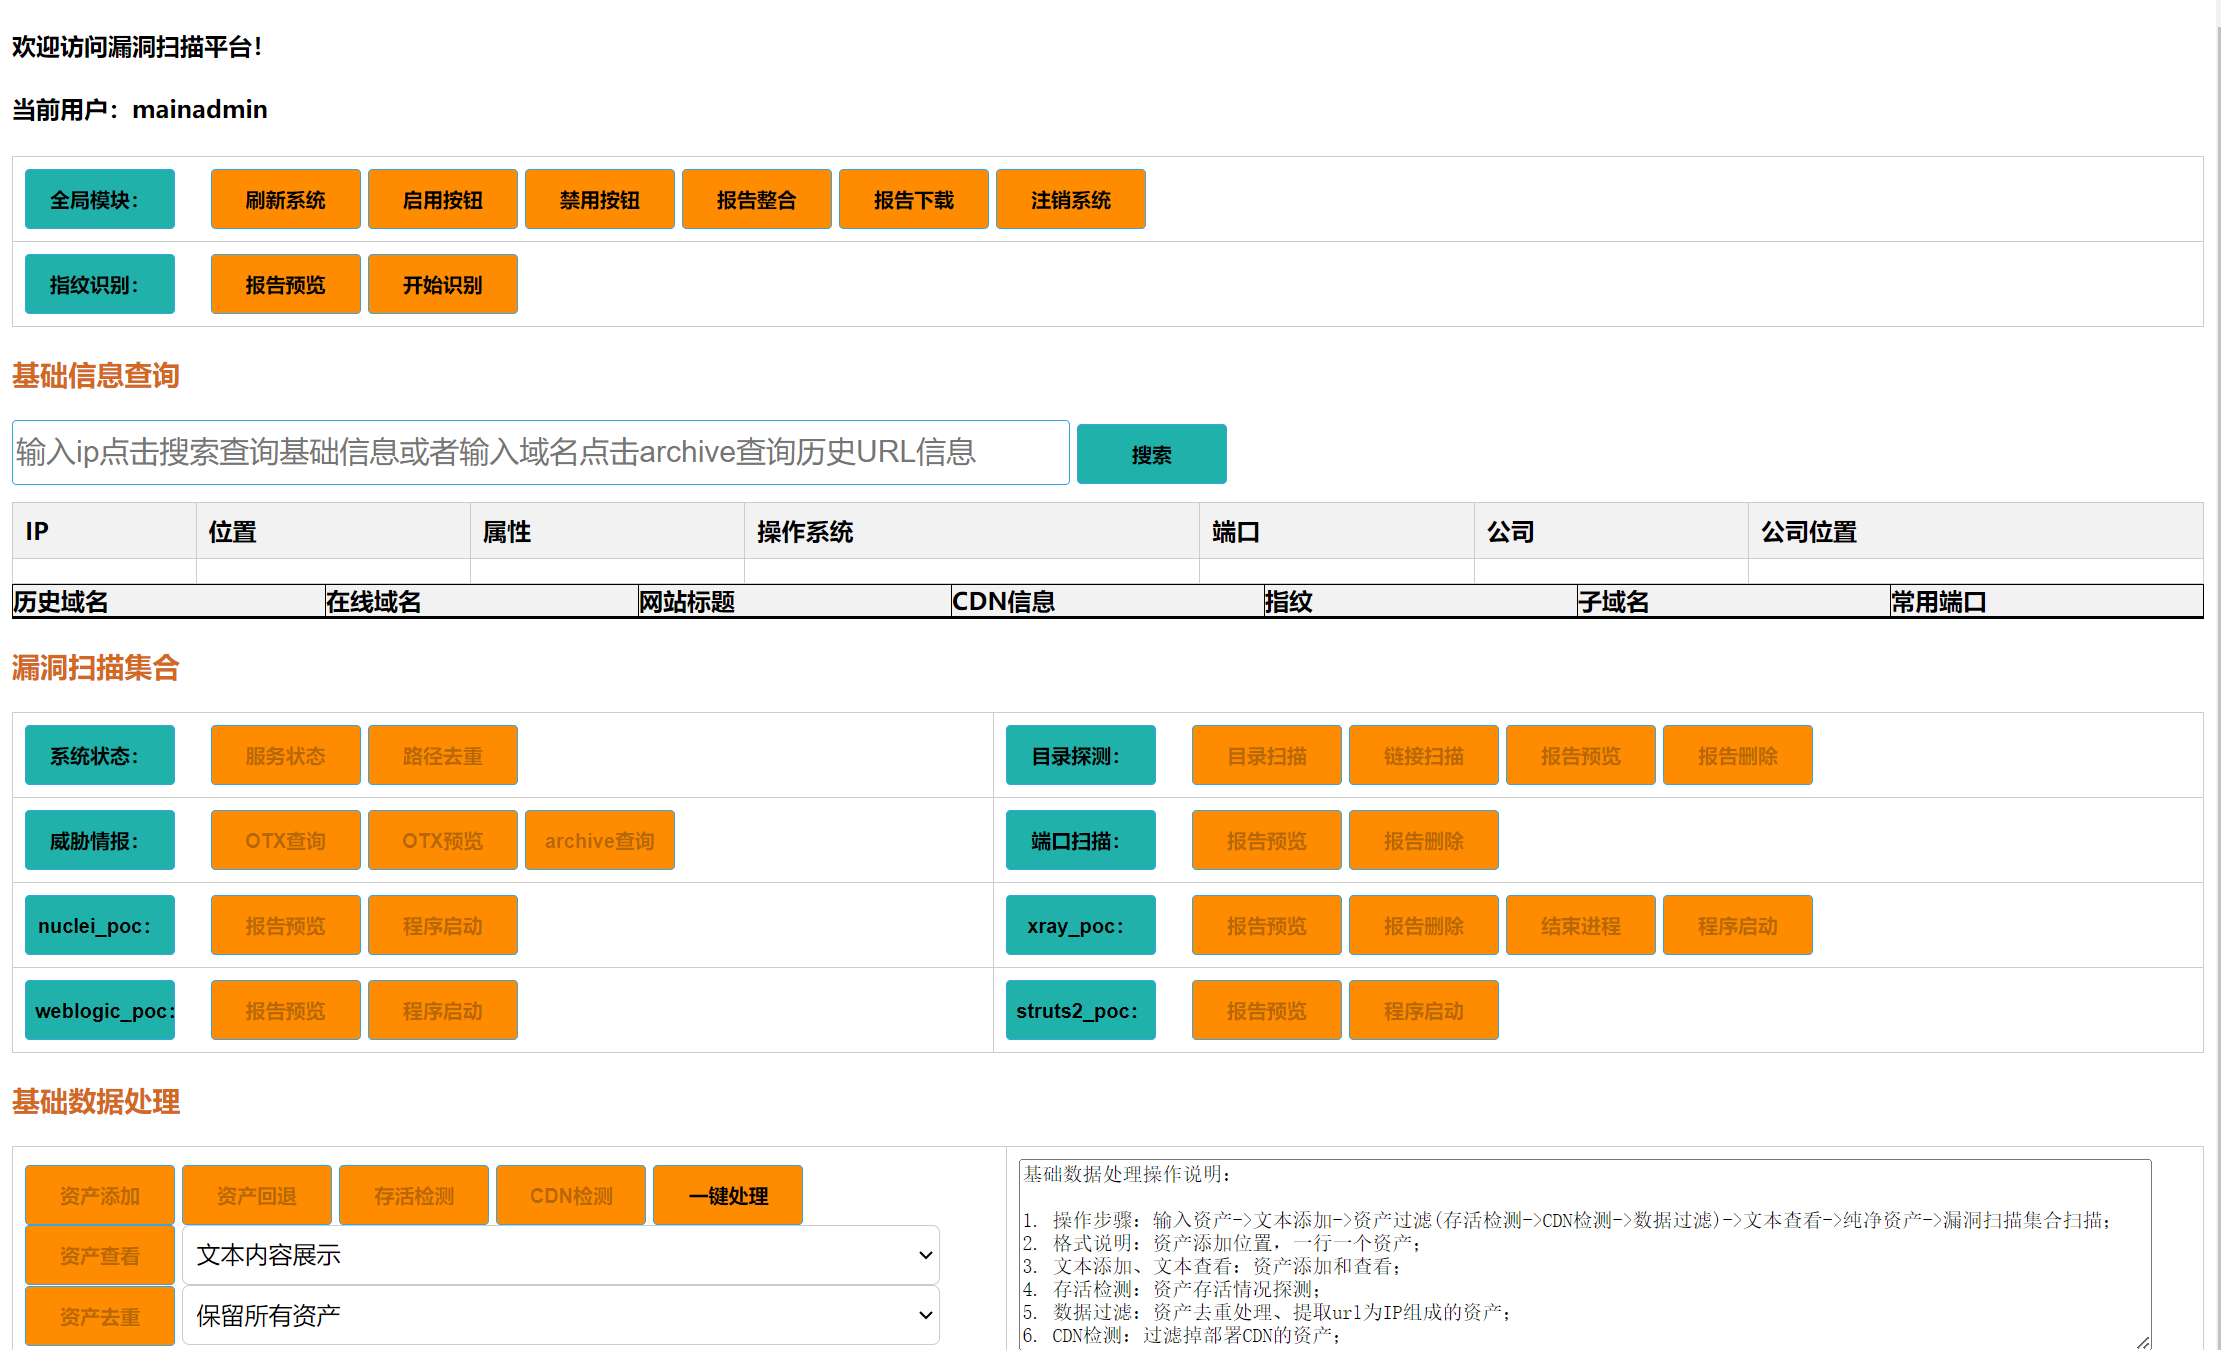
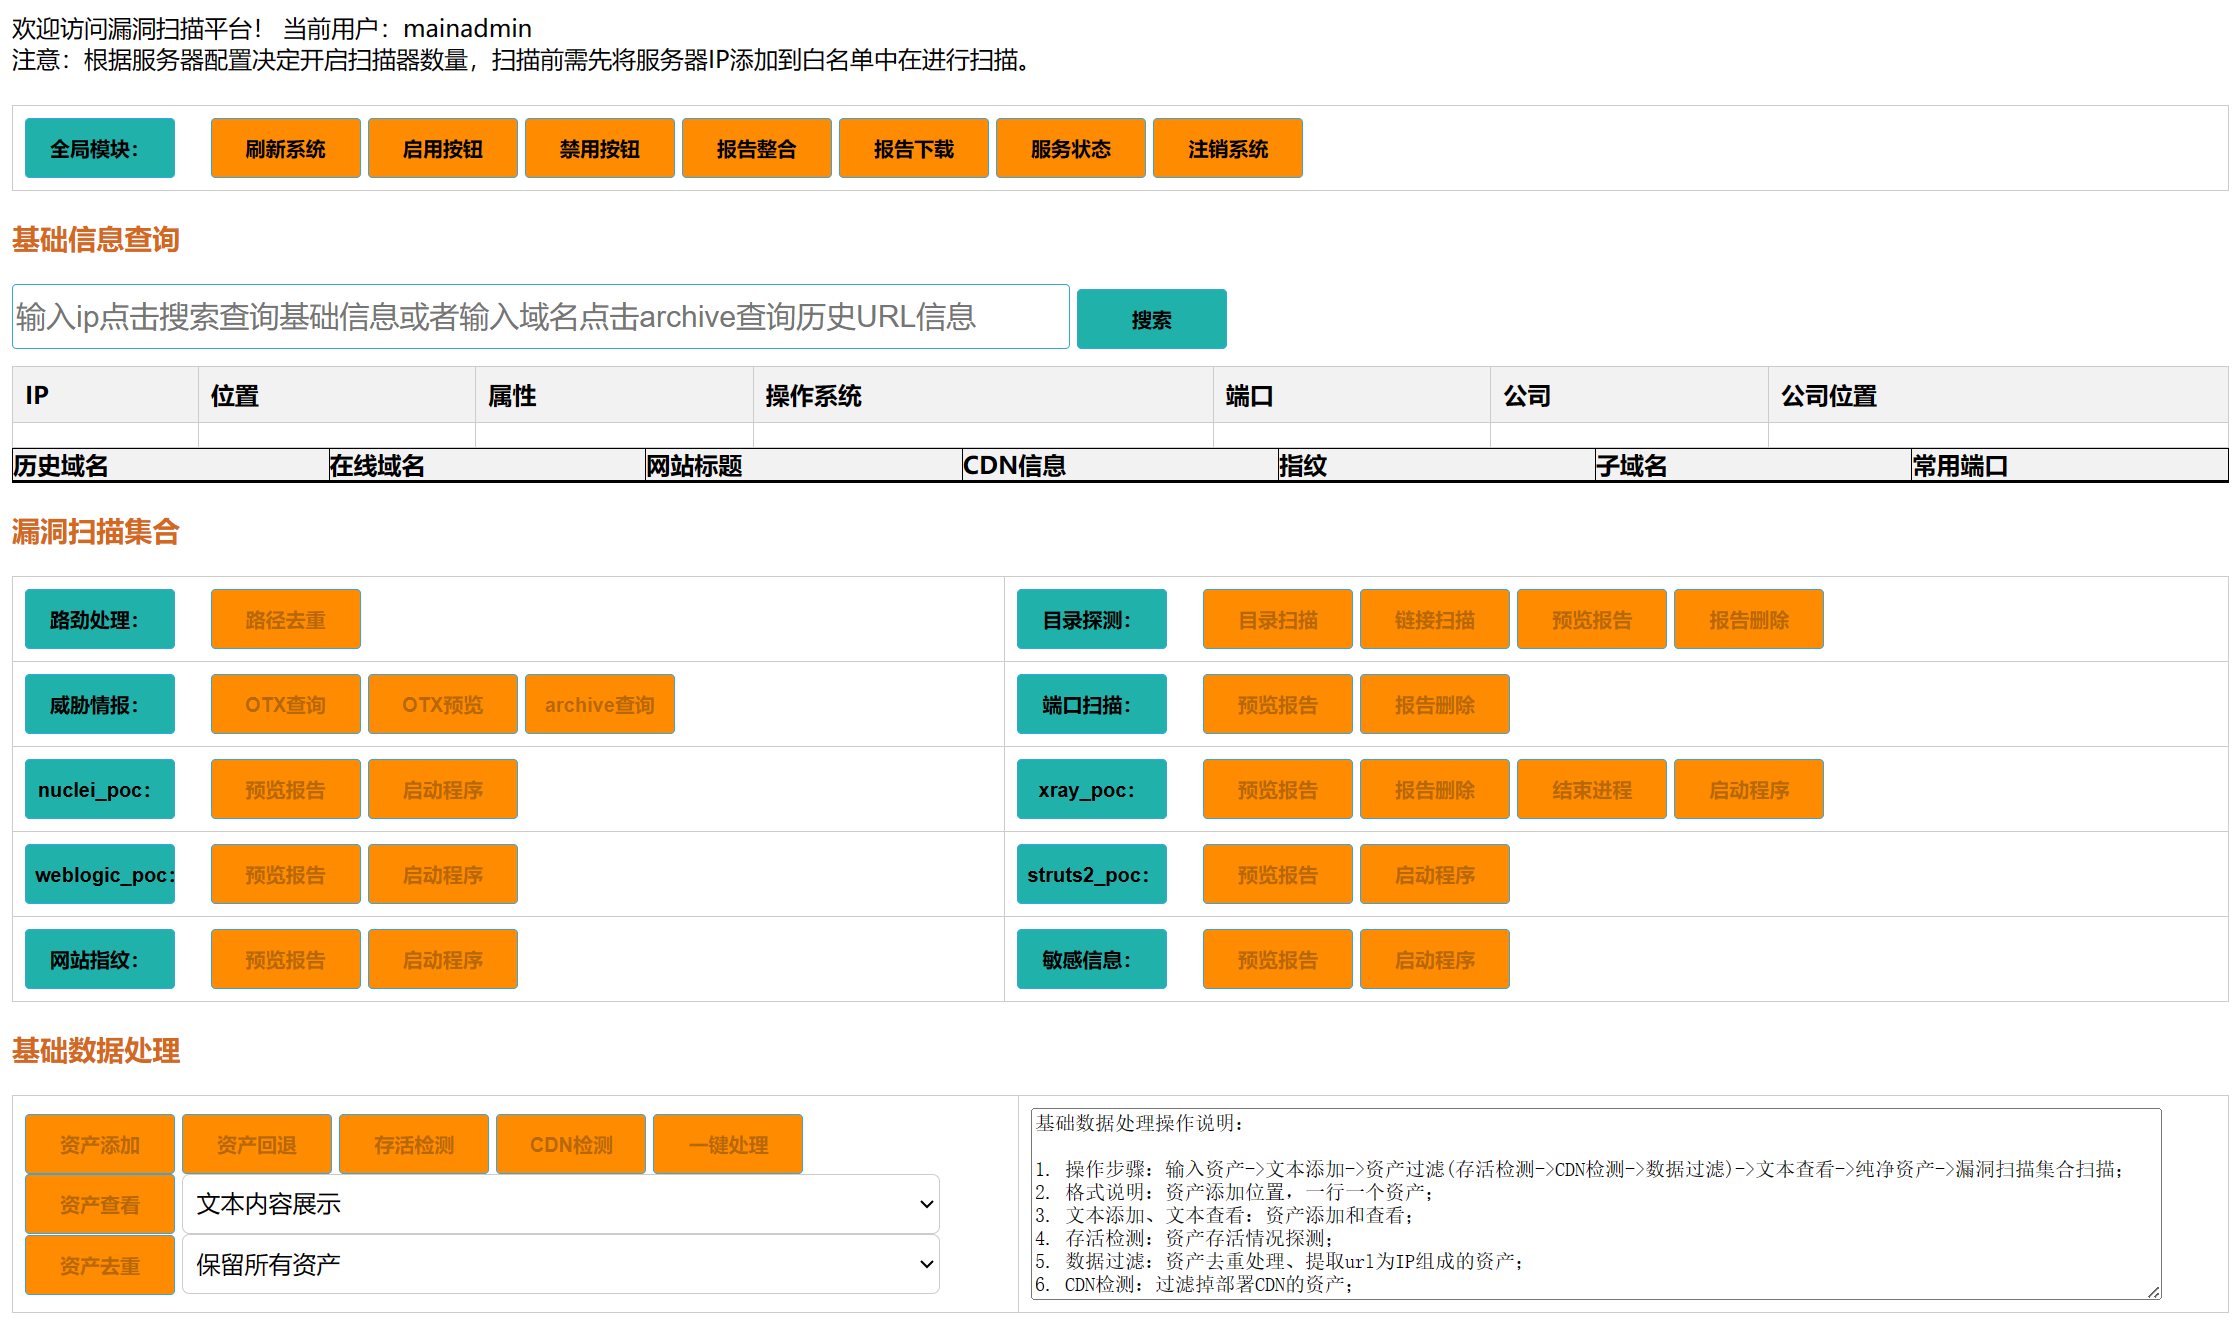
新增敏感信息识别

diff --git a/templates/index.html b/templates/index.html
@@ -11,8 +11,8 @@
 </head>
 
 <body>
-	<h4 align="left">欢迎访问漏洞扫描平台！</h4>
-	<h4 align="left">当前用户：{{data20}}</h4>
+	<span align="left">欢迎访问漏洞扫描平台！</span> <span align="right">当前用户：{{data20}}</span><br>
+	<span align="left">注意：根据服务器配置决定开启扫描器数量，扫描前需先将服务器IP添加到白名单中在进行扫描。</span><br><br>
 	<table border="1">
 		<tr>
 			<td>
@@ -22,16 +22,11 @@
 				<input type="button" value="禁用按钮" onclick="stopbutton()">
 				<input type="button" value="报告整合" onclick="reporttotalfunc()">
 				<input type="button" value="报告下载" onclick="reportdownloadfunc()">
+				<input type="button" value="服务状态" onclick="statusnmapfunc()" >
 				<input type="button" value="注销系统" onclick="signoutfunc()">
 			</td>			
 		</tr>
-		<tr>
-			<td>
-				<input type="submit"  value="指纹识别：">&nbsp;&nbsp;&nbsp;&nbsp;
-				<input type="button"  value="报告预览" onclick="eholefingerreportfunc()">
-				<input type="button"  value="开始识别" onclick="eholefingerfunc()">
-			</td>
-		</tr>
+		
 	</table>
 	
 	<h3>基础信息查询</h3>
@@ -137,8 +132,8 @@
 	<table border="1">
 		<tr>
 			<td>
-				<input type="submit" value="系统状态：">&nbsp;&nbsp;&nbsp;&nbsp;				
-				<input type="button" id="button2" value="服务状态" onclick="statusnmapfunc()" disabled>
+				<input type="submit" value="路劲处理：">&nbsp;&nbsp;&nbsp;&nbsp;				
+				
 				<input type="button" id="button4" value="路径去重" onclick="uniqdirfunc()" disabled>
 				
 			</td>
@@ -147,7 +142,7 @@
 				<input type="submit" value="目录探测：">&nbsp;&nbsp;&nbsp;&nbsp;
 				<input type="button" id="button18" value="目录扫描" onclick="jumpdirscanpage()" disabled>
 				<input type="button" id="button21" value="链接扫描" onclick="urlfinderscanfunc()" disabled>
-				<input type="button" id="button22" value="报告预览" onclick="urlfinderreportshow()" disabled>
+				<input type="button" id="button22" value="预览报告" onclick="urlfinderreportshow()" disabled>
 				<input type="button" id="button23" value="报告删除" onclick="deleteurlfinderreportfunc()" disabled>
 			</td>
 
@@ -161,7 +156,7 @@
 			</td>
 			<td>
 				<input type="submit" value="端口扫描：">&nbsp;&nbsp;&nbsp;&nbsp;
-				<input type="button" id="button9" value="报告预览" onclick="nmapjumpfunc()" disabled>
+				<input type="button" id="button9" value="预览报告" onclick="nmapjumpfunc()" disabled>
 				<input type="button" id="button10" value="报告删除" onclick="deletenmapfunc()" disabled>
 			</td>
 
@@ -169,27 +164,39 @@
 		<tr>
 			<td>
 				<input type="submit" value="nuclei_poc：">&nbsp;&nbsp;&nbsp;&nbsp;
-				<input type="button" id="button11" value="报告预览" onclick="nucleijumpfunc()" disabled>
-				<input type="button" id="button12" value="程序启动" onclick="startnucleifunc()" disabled>
+				<input type="button" id="button11" value="预览报告" onclick="nucleijumpfunc()" disabled>
+				<input type="button" id="button12" value="启动程序" onclick="startnucleifunc()" disabled>
 			</td>
 			<td>
 				<input type="submit" value="xray_poc：">&nbsp;&nbsp;&nbsp;&nbsp;
-				<input type="button" id="button13" value="报告预览" onclick="xrayreportshow()" disabled>
+				<input type="button" id="button13" value="预览报告" onclick="xrayreportshow()" disabled>
 				<input type="button" id="button14" value="报告删除" onclick="xrayreportdelete()" disabled>
 				<input type="button" id="button15" value="结束进程" onclick="killxrayandradfunc()" disabled>
-				<input type="button" id="button16" value="程序启动" onclick="startradandxray()" disabled>
+				<input type="button" id="button16" value="启动程序" onclick="startradandxray()" disabled>
 			</td>
 		</tr>
 		<tr>
 			<td>
 				<input type="submit" value="weblogic_poc：">&nbsp;&nbsp;&nbsp;&nbsp;
-				<input type="button" id="button27" value="报告预览" onclick="weblogicreportfunc()" disabled>
-				<input type="button" id="button28" value="程序启动" onclick="weblogicscanfunc()" disabled>
+				<input type="button" id="button27" value="预览报告" onclick="weblogicreportfunc()" disabled>
+				<input type="button" id="button28" value="启动程序" onclick="weblogicscanfunc()" disabled>
 			</td>
 			<td>
 				<input type="submit" value="struts2_poc：">&nbsp;&nbsp;&nbsp;&nbsp;
-				<input type="button" id="button29" value="报告预览" onclick="struts2reportfunc()" disabled>
-				<input type="button" id="button30" value="程序启动" onclick="struts2scanfunc()" disabled>
+				<input type="button" id="button29" value="预览报告" onclick="struts2reportfunc()" disabled>
+				<input type="button" id="button30" value="启动程序" onclick="struts2scanfunc()" disabled>
+			</td>
+		</tr>
+		<tr>
+			<td>
+				<input type="submit"  value="网站指纹：">&nbsp;&nbsp;&nbsp;&nbsp;
+				<input type="button"  id="button31"  value="预览报告" onclick="eholefingerreportfunc()" disabled>
+				<input type="button"  id="button32"  value="启动程序" onclick="eholefingerfunc()" disabled>
+			</td>
+			<td>
+				<input type="submit"  value="敏感信息：">&nbsp;&nbsp;&nbsp;&nbsp;
+				<input type="button"   id="button33"  value="预览报告" onclick="showbbscanreportfunc()" disabled>
+				<input type="button"   id="button34"  value="启动程序" onclick="bbscaninfofunc()" disabled>
 			</td>
 		</tr>
 	</table>
@@ -202,7 +209,7 @@
 				<input type="button" id="button25" value="资产回退" onclick="assetsbackspacefunc()" disabled>
 				<input type="button" id="button20" class="hover-color" name="commit" value="存活检测" onclick="filterstatuscodefunc()" disabled>
 				<input type="button" id="button24" value="CDN检测" onclick="filtercdndatafunc()" disabled>
-				<input type="button"  value="一键处理" onclick="oneclickprocessing()" > <br>
+				<input type="button" id="button2" value="一键处理" onclick="oneclickprocessing()" disabled> <br>
 				<input type="button" id="button17" value="资产查看" onclick="textinfoshowfunc()" disabled>
 	<select id="opbyid3">
 		<option>文本内容展示</option>

diff --git a/static/js/common.js b/static/js/common.js
@@ -61,7 +61,7 @@ function statusnmapfunc() {
     })
     $.getJSON("/nmapqueuestatus/",
         function (info) {
-            alert(info.nmapstatus + '\n' + info.nucleistatus + '\n' + info.xraystatus + '\n' + info.radstatus + '\n' + info.dirscanstatus+ '\n' + info.weblogicstatus+ '\n' +info.struts2status)
+            alert(info.nmapstatus + '\n' + info.nucleistatus + '\n' + info.xraystatus + '\n' + info.radstatus + '\n' + info.dirscanstatus+ '\n' + info.weblogicstatus+ '\n' +info.struts2status+ '\n' +info.bbscanstatus)
         })
 }
 
@@ -69,13 +69,13 @@ function statusnmapfunc() {
 
 //xray报告预览
 function xrayreportshow() {
-    window.open("http://121.37.207.248:18888/", "_blank");
+    window.open("http://ip:18888/", "_blank");
 }
 
 
 //urlfinder报告预览
 function urlfinderreportshow() {
-    window.open("http://121.37.207.248:16666/", "_blank");
+    window.open("http://ip:16666/", "_blank");
 }
 
 
@@ -338,6 +338,14 @@ function startbutton() {
     button29.disabled = false;
     var button30 = document.getElementById("button30");
     button30.disabled = false;
+    var button31 = document.getElementById("button31");
+    button31.disabled = false;
+    var button32 = document.getElementById("button32");
+    button32.disabled = false;
+    var button33 = document.getElementById("button33");
+    button33.disabled = false;
+    var button34 = document.getElementById("button34");
+    button34.disabled = false;
 
 }
 
@@ -397,13 +405,21 @@ function stopbutton() {
     button29.disabled = true;
     var button30 = document.getElementById("button30");
     button30.disabled = true;
+    var button31 = document.getElementById("button31");
+    button31.disabled = true;
+    var button32 = document.getElementById("button32");
+    button32.disabled = true;
+    var button33 = document.getElementById("button33");
+    button33.disabled = true;
+    var button34 = document.getElementById("button34");
+    button34.disabled = true;
 
 }
 
 
 //跳转到目录扫描页面
 function jumpdirscanpage() {
-    window.open("http://121.37.207.248:17777/dirscanpage/", "_blank");
+    window.open("http://ip:17777/dirscanpage/", "_blank");
 }
 
 
@@ -652,4 +668,29 @@ function eholefingerfunc() {
             alert('指纹识别已开启稍后查看结果')
         }
     })
+}
+
+
+//bbscan敏感信息扫描
+function bbscaninfofunc() {
+    $.ajax({
+        url: '/bbscan_info_scan/',
+        method: 'GET',
+
+        success: function (res) {
+            console.log(res)
+            console.log('敏感信息扫描已开启稍后查看结果')
+        },
+        error: function () {
+            alert('内部出错')
+        },
+        complete: function () {
+            alert('敏感信息扫描已开启稍后查看结果')
+        }
+    })
+}
+
+//bbscan报告预览
+function showbbscanreportfunc() {
+    window.open("/showbbscanreport/", "_blank");
 }

diff --git a/report_total.py b/report_total.py
@@ -48,6 +48,13 @@ def report_xlsx():
         patternq = re.compile(r'\x1b\[[0-9;]*m')
         cleanq_text = patternq.sub('', ehole_line)
         ehole_report_list.append(cleanq_text.strip())
+
+
+    # bbscan
+    bbscan_report_list = []
+    bbscan_file = open("/TIP/info_scan/result/bbscan_info.txt",encoding='utf-8')
+    for bbscan_line in bbscan_file.readlines():
+        bbscan_report_list.append(bbscan_line.strip())
     
     '''
     # 使用正则表达式匹配并提取URL  
@@ -66,17 +73,19 @@ def report_xlsx():
     '''
     
     # 将列表转换为 pandas 的 DataFrame
-    df_a = pd.DataFrame(weblogic_report_list, columns=['weblogic_vuln'])
-    df_b = pd.DataFrame(nmap_report_list, columns=['nmap_port'])
-    df_c = pd.DataFrame(struts2_report_list, columns=['struts2_vuln'])
-    df_d = pd.DataFrame(nuclei_report_list, columns=['nuclei_vuln'])
-    df_e = pd.DataFrame(ehole_report_list, columns=['ehole_finger'])
+    df_a = pd.DataFrame(weblogic_report_list, columns=['weblogic'])
+    df_b = pd.DataFrame(nmap_report_list, columns=['端口信息'])
+    df_c = pd.DataFrame(struts2_report_list, columns=['struts2'])
+    df_d = pd.DataFrame(nuclei_report_list, columns=['nuclei'])
+    df_e = pd.DataFrame(ehole_report_list, columns=['指纹信息'])
+    df_f = pd.DataFrame(bbscan_report_list, columns=['敏感信息'])
 
     # 创建一个 ExcelWriter 对象，用于写入 Excel 文件  
     with pd.ExcelWriter('/TIP/info_scan/result/vuln_report.xlsx', engine='openpyxl') as writer:
         # 将 DataFrame 写入不同的工作表  
-        df_a.to_excel(writer, sheet_name='weblogic_vuln', index=False)
-        df_b.to_excel(writer, sheet_name='nmap_port', index=False)
-        df_c.to_excel(writer, sheet_name='struts2_vuln', index=False)
-        df_d.to_excel(writer, sheet_name='nuclei_vuln', index=False)
-        df_e.to_excel(writer, sheet_name='ehole_finger', index=False)
+        df_a.to_excel(writer, sheet_name='weblogic', index=False)
+        df_b.to_excel(writer, sheet_name='端口信息', index=False)
+        df_c.to_excel(writer, sheet_name='struts2', index=False)
+        df_d.to_excel(writer, sheet_name='nuclei', index=False)
+        df_e.to_excel(writer, sheet_name='指纹信息', index=False)
+        df_f.to_excel(writer, sheet_name='敏感信息', index=False)

diff --git a/scan_main_web.py b/scan_main_web.py
@@ -345,6 +345,7 @@ def nmapqueuestatus():
         dirscanstatus = os.popen('bash ./finger.sh dirsearchstatus').read()
         weblogicstatus = os.popen('bash ./finger.sh weblogic_status').read()
         struts2status = os.popen('bash ./finger.sh struts2_status').read()
+        bbscanstatus = os.popen('bash ./finger.sh bbscan_status').read()
         message_json = {
             "nmapstatus":nmapstatus,
             "nucleistatus":nucleistatus,
@@ -352,7 +353,8 @@ def nmapqueuestatus():
             "radstatus":radstatus,
             "dirscanstatus":dirscanstatus,
             "weblogicstatus":weblogicstatus,
-            "struts2status":struts2status
+            "struts2status":struts2status,
+            "bbscanstatus":bbscanstatus
         }
         return jsonify(message_json)
     else:
@@ -672,6 +674,32 @@ def ehole_finger_scan():
         # 执行指纹识别扫描
         os.popen('bash ./finger.sh ehole_finger_scan')
         return render_template('index.html')
+    else:
+        return render_template('login.html')
+    
+
+# bbscan_info_scan扫描
+@app.route("/bbscan_info_scan/")
+def bbscan_info_scan():
+    user = session.get('username')
+    if str(user) == main_username:
+        # 执行敏感信息扫描
+        os.popen('bash ./finger.sh bbscan_shell')
+        return render_template('index.html')
+    else:
+        return render_template('login.html')
+
+
+#bbscan扫描预览报告
+@app.route("/showbbscanreport/")
+def showbbscanreport():
+    user = session.get('username')
+    if str(user) == main_username:
+        lines = []
+        with open('/TIP/info_scan/result/bbscan_info.txt', 'r') as f:
+            for line in f:
+                lines.append(line.strip())
+        return '<br>'.join(lines)
     else:
         return render_template('login.html')
 
